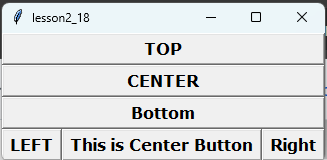
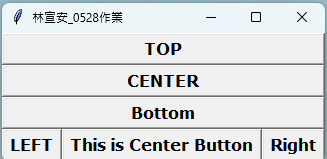
issue112

diff --git a/window_layout/index6.py b/window_layout/index6.py
@@ -5,7 +5,7 @@ class Window(tk.Tk):
     def __init__(self):
         super().__init__()
         self.option_add('*font',('verdana', 12, 'bold'))
-        self.title("lesson2_18")
+        self.title("林宣安_0528作業")
 
         fm = Frame(self)
         Button(fm, text='TOP').pack(side=TOP,expand=YES, anchor=W,fill=X)

diff --git a/window_layout/index7.py b/window_layout/index7.py
@@ -5,7 +5,7 @@ class Window(tk.Tk):
     def __init__(self):
         super().__init__()
         self.option_add('*font',('verdana', 12, 'bold'))
-        self.title("lesson2_19")
+        self.title("林宣安_0528作業")
 
         fm = Frame(self)
         Button(fm, text='TOP').pack(side=TOP,expand=YES, anchor=W,fill=X)

diff --git a/window_layout/index5.py b/window_layout/index5.py
@@ -5,7 +5,7 @@ class Window(tk.Tk):
     def __init__(self):
         super().__init__()
         self.option_add('*font',('verdana', 12, 'bold'))
-        self.title("lesson2_4")
+        self.title("林宣安_0528作業")
 
         fm = Frame(self)
         Button(fm, text='Left').pack(side=TOP)

diff --git a/window_layout/README.md b/window_layout/README.md
@@ -1,6 +1,6 @@
 # index5.py  
-![alt text](images/05_林宣安_2.png)  
-# index6.py  
-![alt text](images/05_林宣安_3.png)  
-# index7.py  
 ![alt text](images/05_林宣安.png)  
+# index6.py  
+![alt text](images/05_林宣安_2.png)  
+# index7.py  
+![alt text](images/05_林宣安_3.png)  
